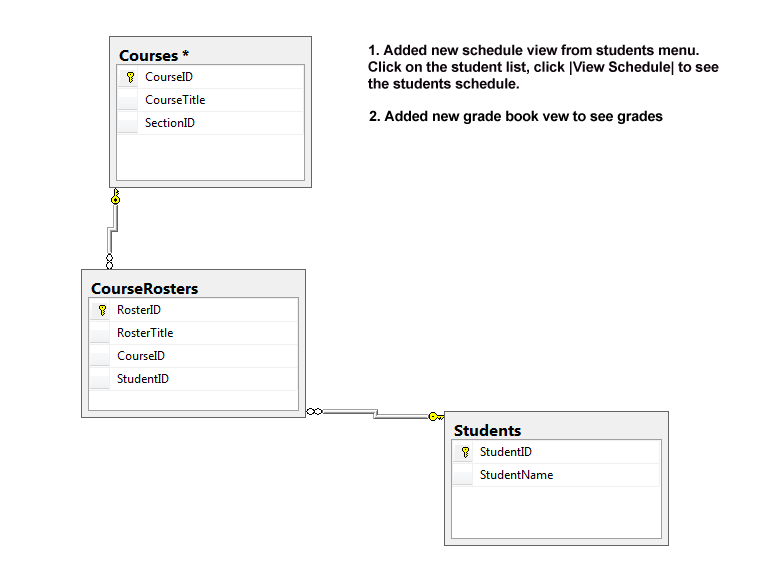
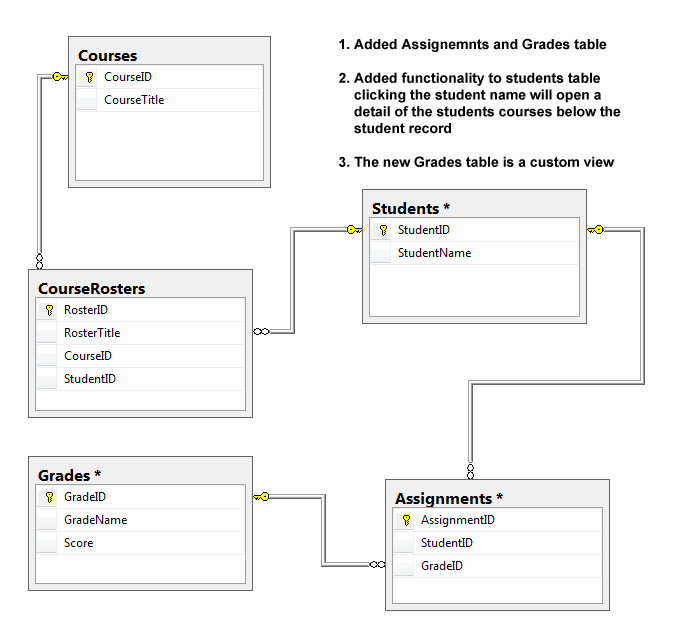
r5

diff --git a/SchoolDatabase/COP4834SchoolDatabase/COP4834SchoolDatabase/Controllers/AssignmentsController.cs b/SchoolDatabase/COP4834SchoolDatabase/COP4834SchoolDatabase/Controllers/AssignmentsController.cs
@@ -20,6 +20,14 @@ namespace COP4834SchoolDatabase.Controllers
             return View(db.Assignments.ToList());
         }
 
+
+        // GET: AssignmentsView
+        public ActionResult AssignmentsView()
+        {
+            ViewBag.Grades = db.Grades.Include(c => c.Assignments).Include(c => c.Students);
+            return View(db.Assignments.ToList());
+        }
+
         // GET: Assignments/Details/5
         public ActionResult Details(int? id)
         {

diff --git a/SchoolDatabase/COP4834SchoolDatabase/COP4834SchoolDatabase/Controllers/GradesController.cs b/SchoolDatabase/COP4834SchoolDatabase/COP4834SchoolDatabase/Controllers/GradesController.cs
@@ -21,6 +21,13 @@ namespace COP4834SchoolDatabase.Controllers
             return View(grades.ToList());
         }
 
+        // GET: GradesView
+        public ActionResult GradesView()
+        {
+            var grades = db.Grades.Include(g => g.Assignments).Include(g => g.Students);
+            return View(grades.ToList());
+        }
+
         // GET: Grades/Details/5
         public ActionResult Details(int? id)
         {
